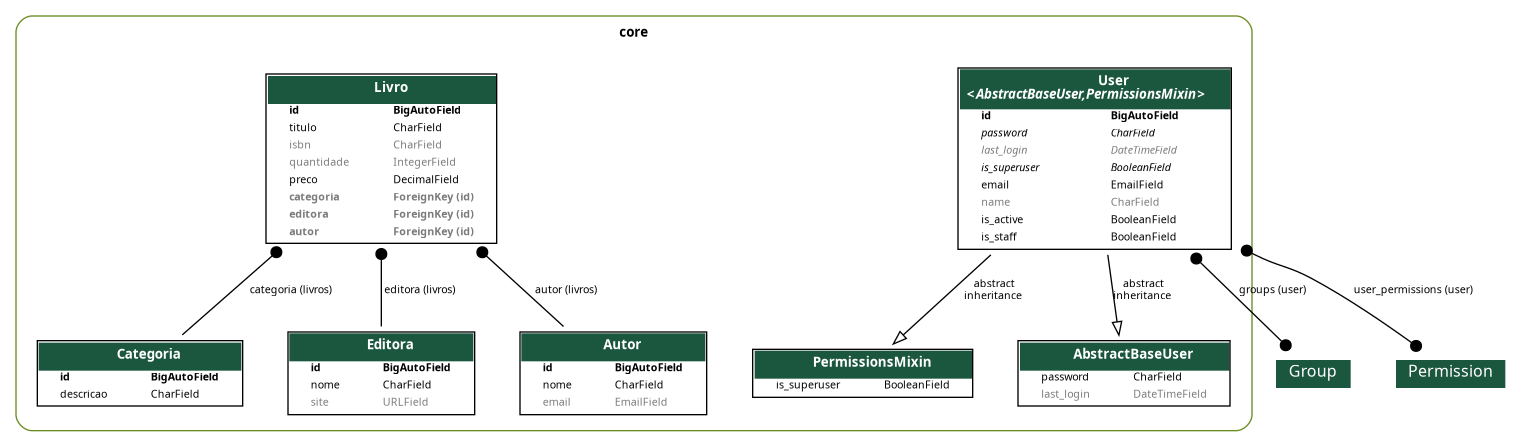
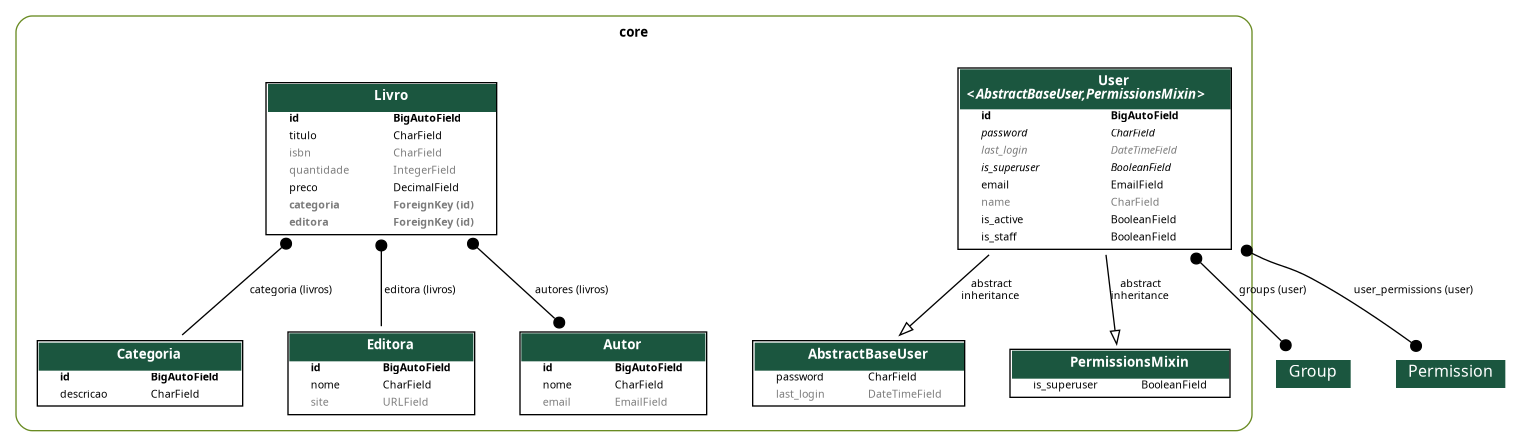
feat: Relação entre categoria e Autor criado

diff --git a/core/models/livro.py b/core/models/livro.py
@@ -12,7 +12,7 @@ class Livro(models.Model):
     preco = models.DecimalField(max_digits=7, decimal_places=2, default=0)
     categoria = models.ForeignKey(Categoria, on_delete=models.PROTECT, related_name='livros', null=True, blank=True)
     editora = models.ForeignKey(Editora, on_delete=models.PROTECT, related_name='livros', null=True, blank=True)
-    autor = models.ForeignKey(Autor, on_delete=models.PROTECT, related_name='livros', null=True, blank=True)
+    autores = models.ManyToManyField(Autor, related_name='livros', blank=True)
 
     def __str__(self):
         return f'({self.id}) {self.titulo} ({self.quantidade})'

diff --git a/core/migrations/0010_remove_livro_autor_livro_autores.py b/core/migrations/0010_remove_livro_autor_livro_autores.py
@@ -1,0 +1,22 @@
+# Generated by Django 5.2.12 on 2026-03-17 19:13
+
+from django.db import migrations, models
+
+
+class Migration(migrations.Migration):
+
+    dependencies = [
+        ('core', '0009_livro_autor'),
+    ]
+
+    operations = [
+        migrations.RemoveField(
+            model_name='livro',
+            name='autor',
+        ),
+        migrations.AddField(
+            model_name='livro',
+            name='autores',
+            field=models.ManyToManyField(blank=True, related_name='livros', to='core.autor'),
+        ),
+    ]
